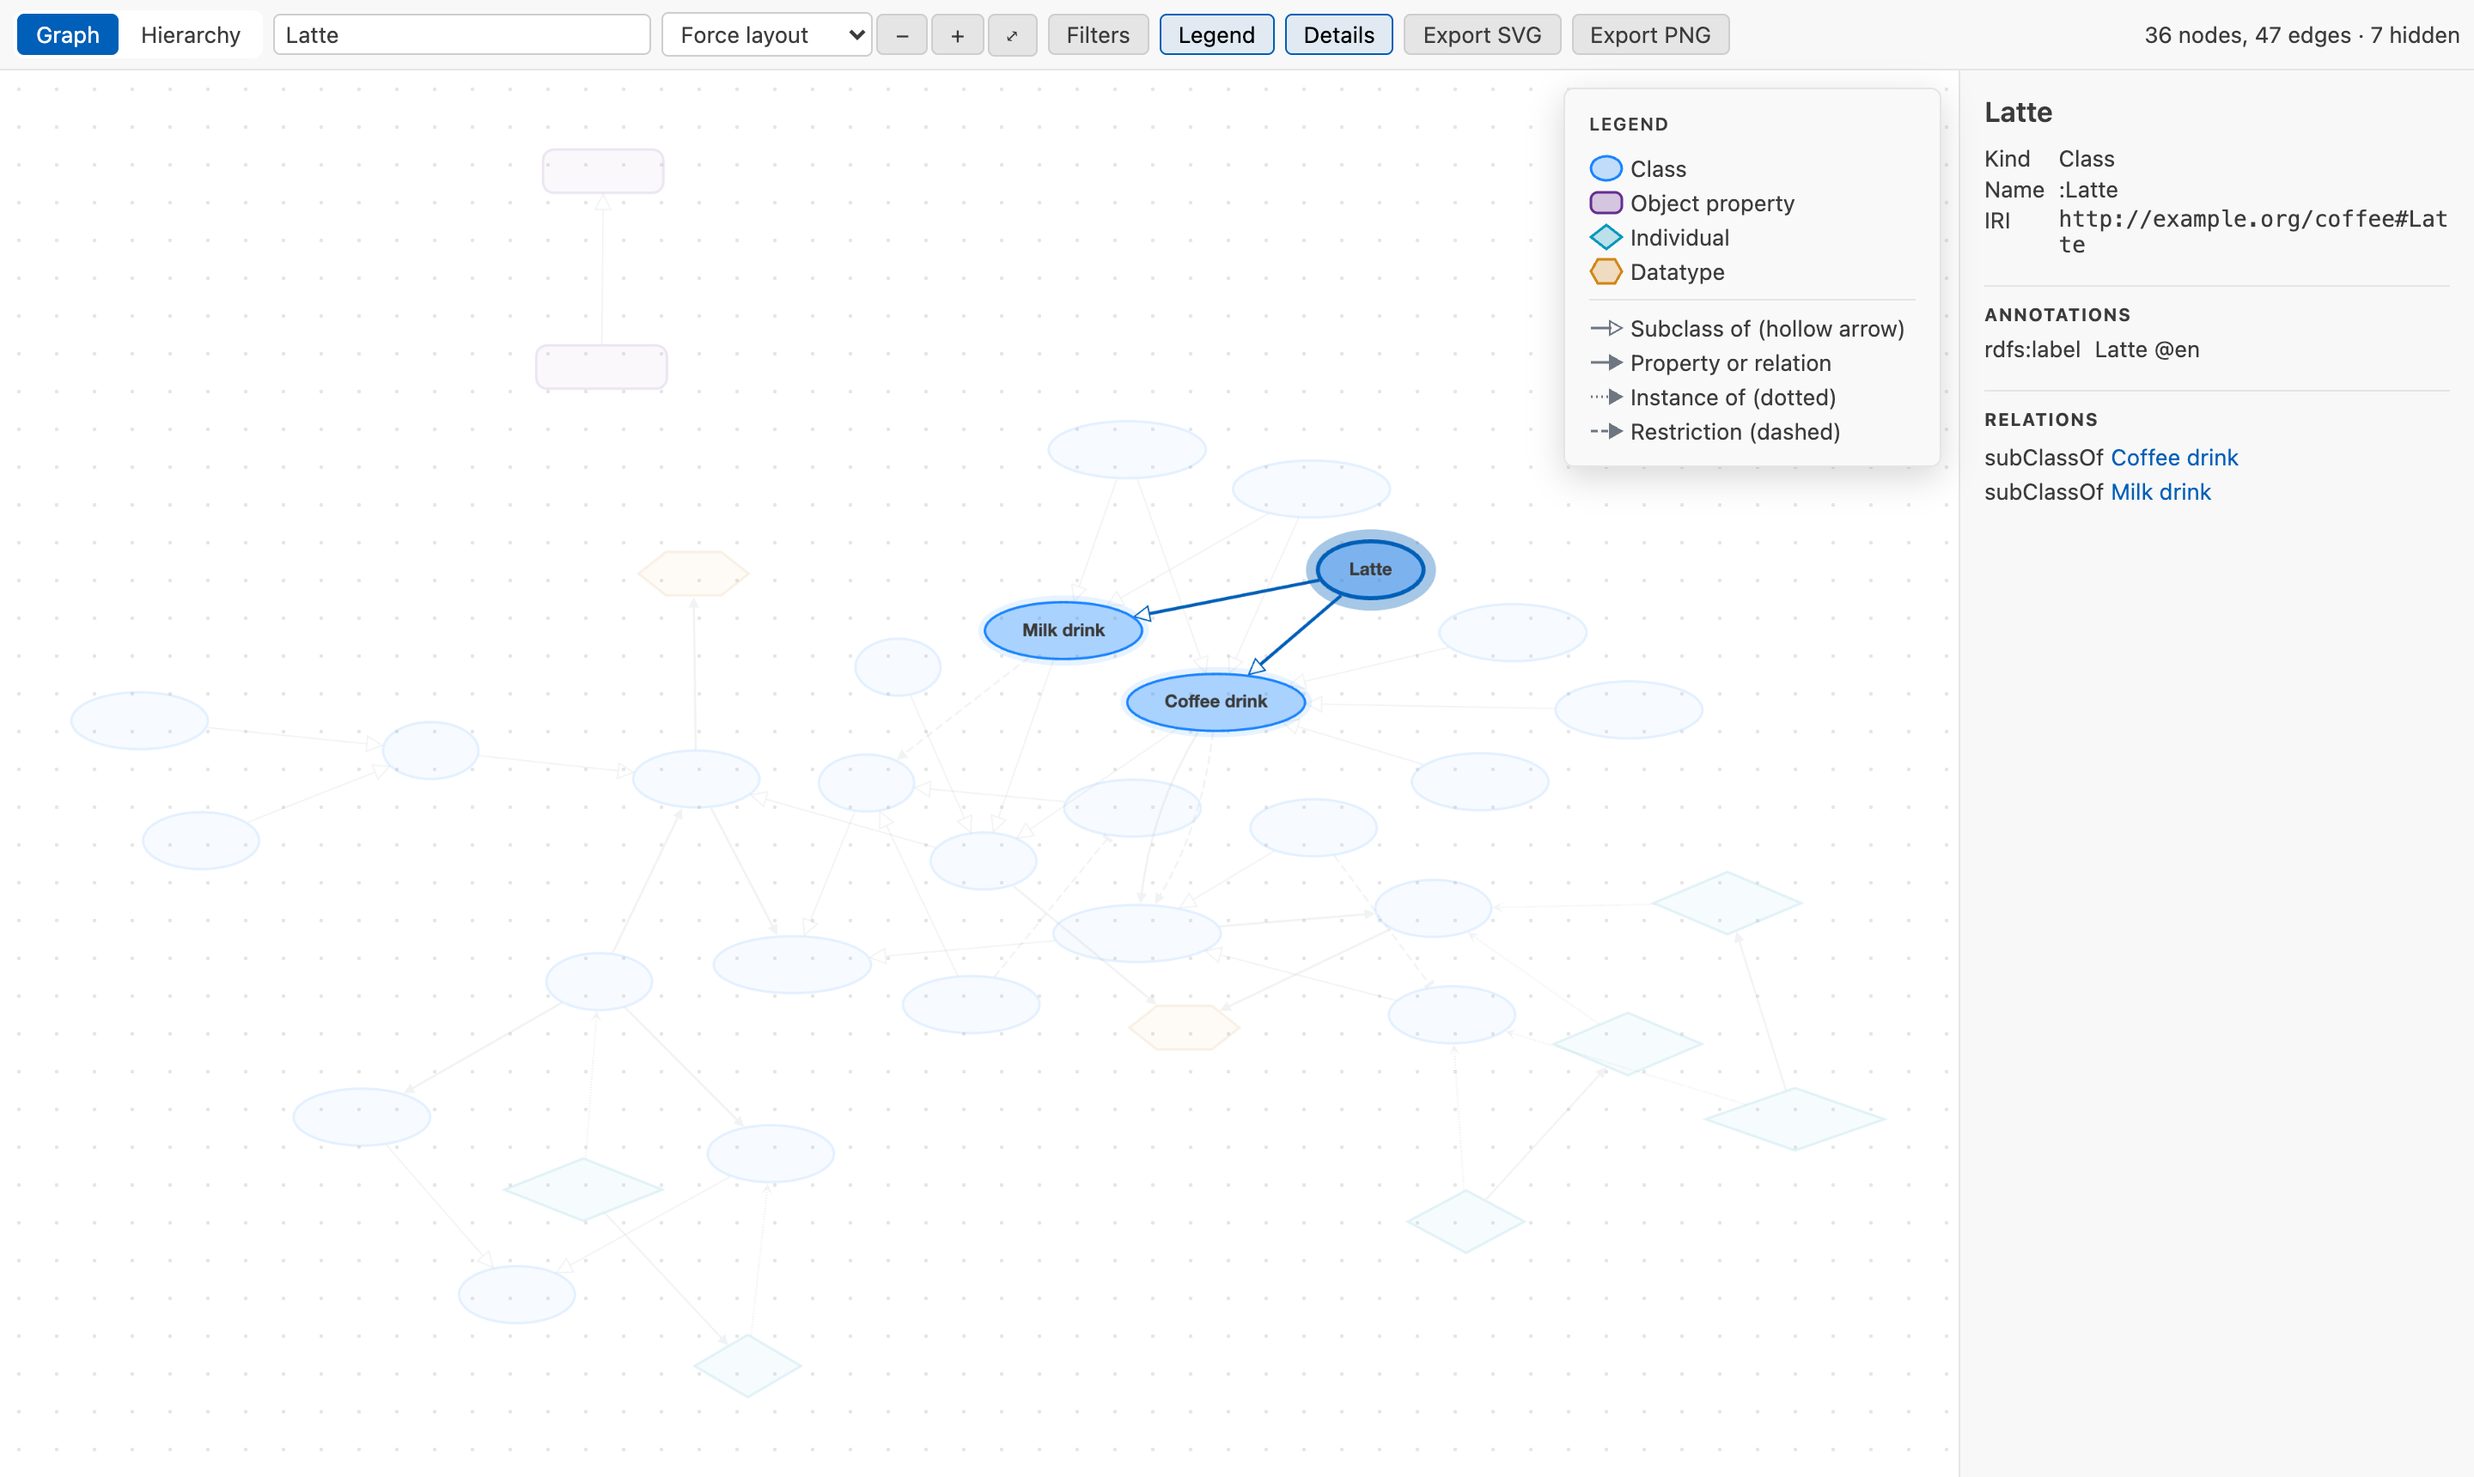
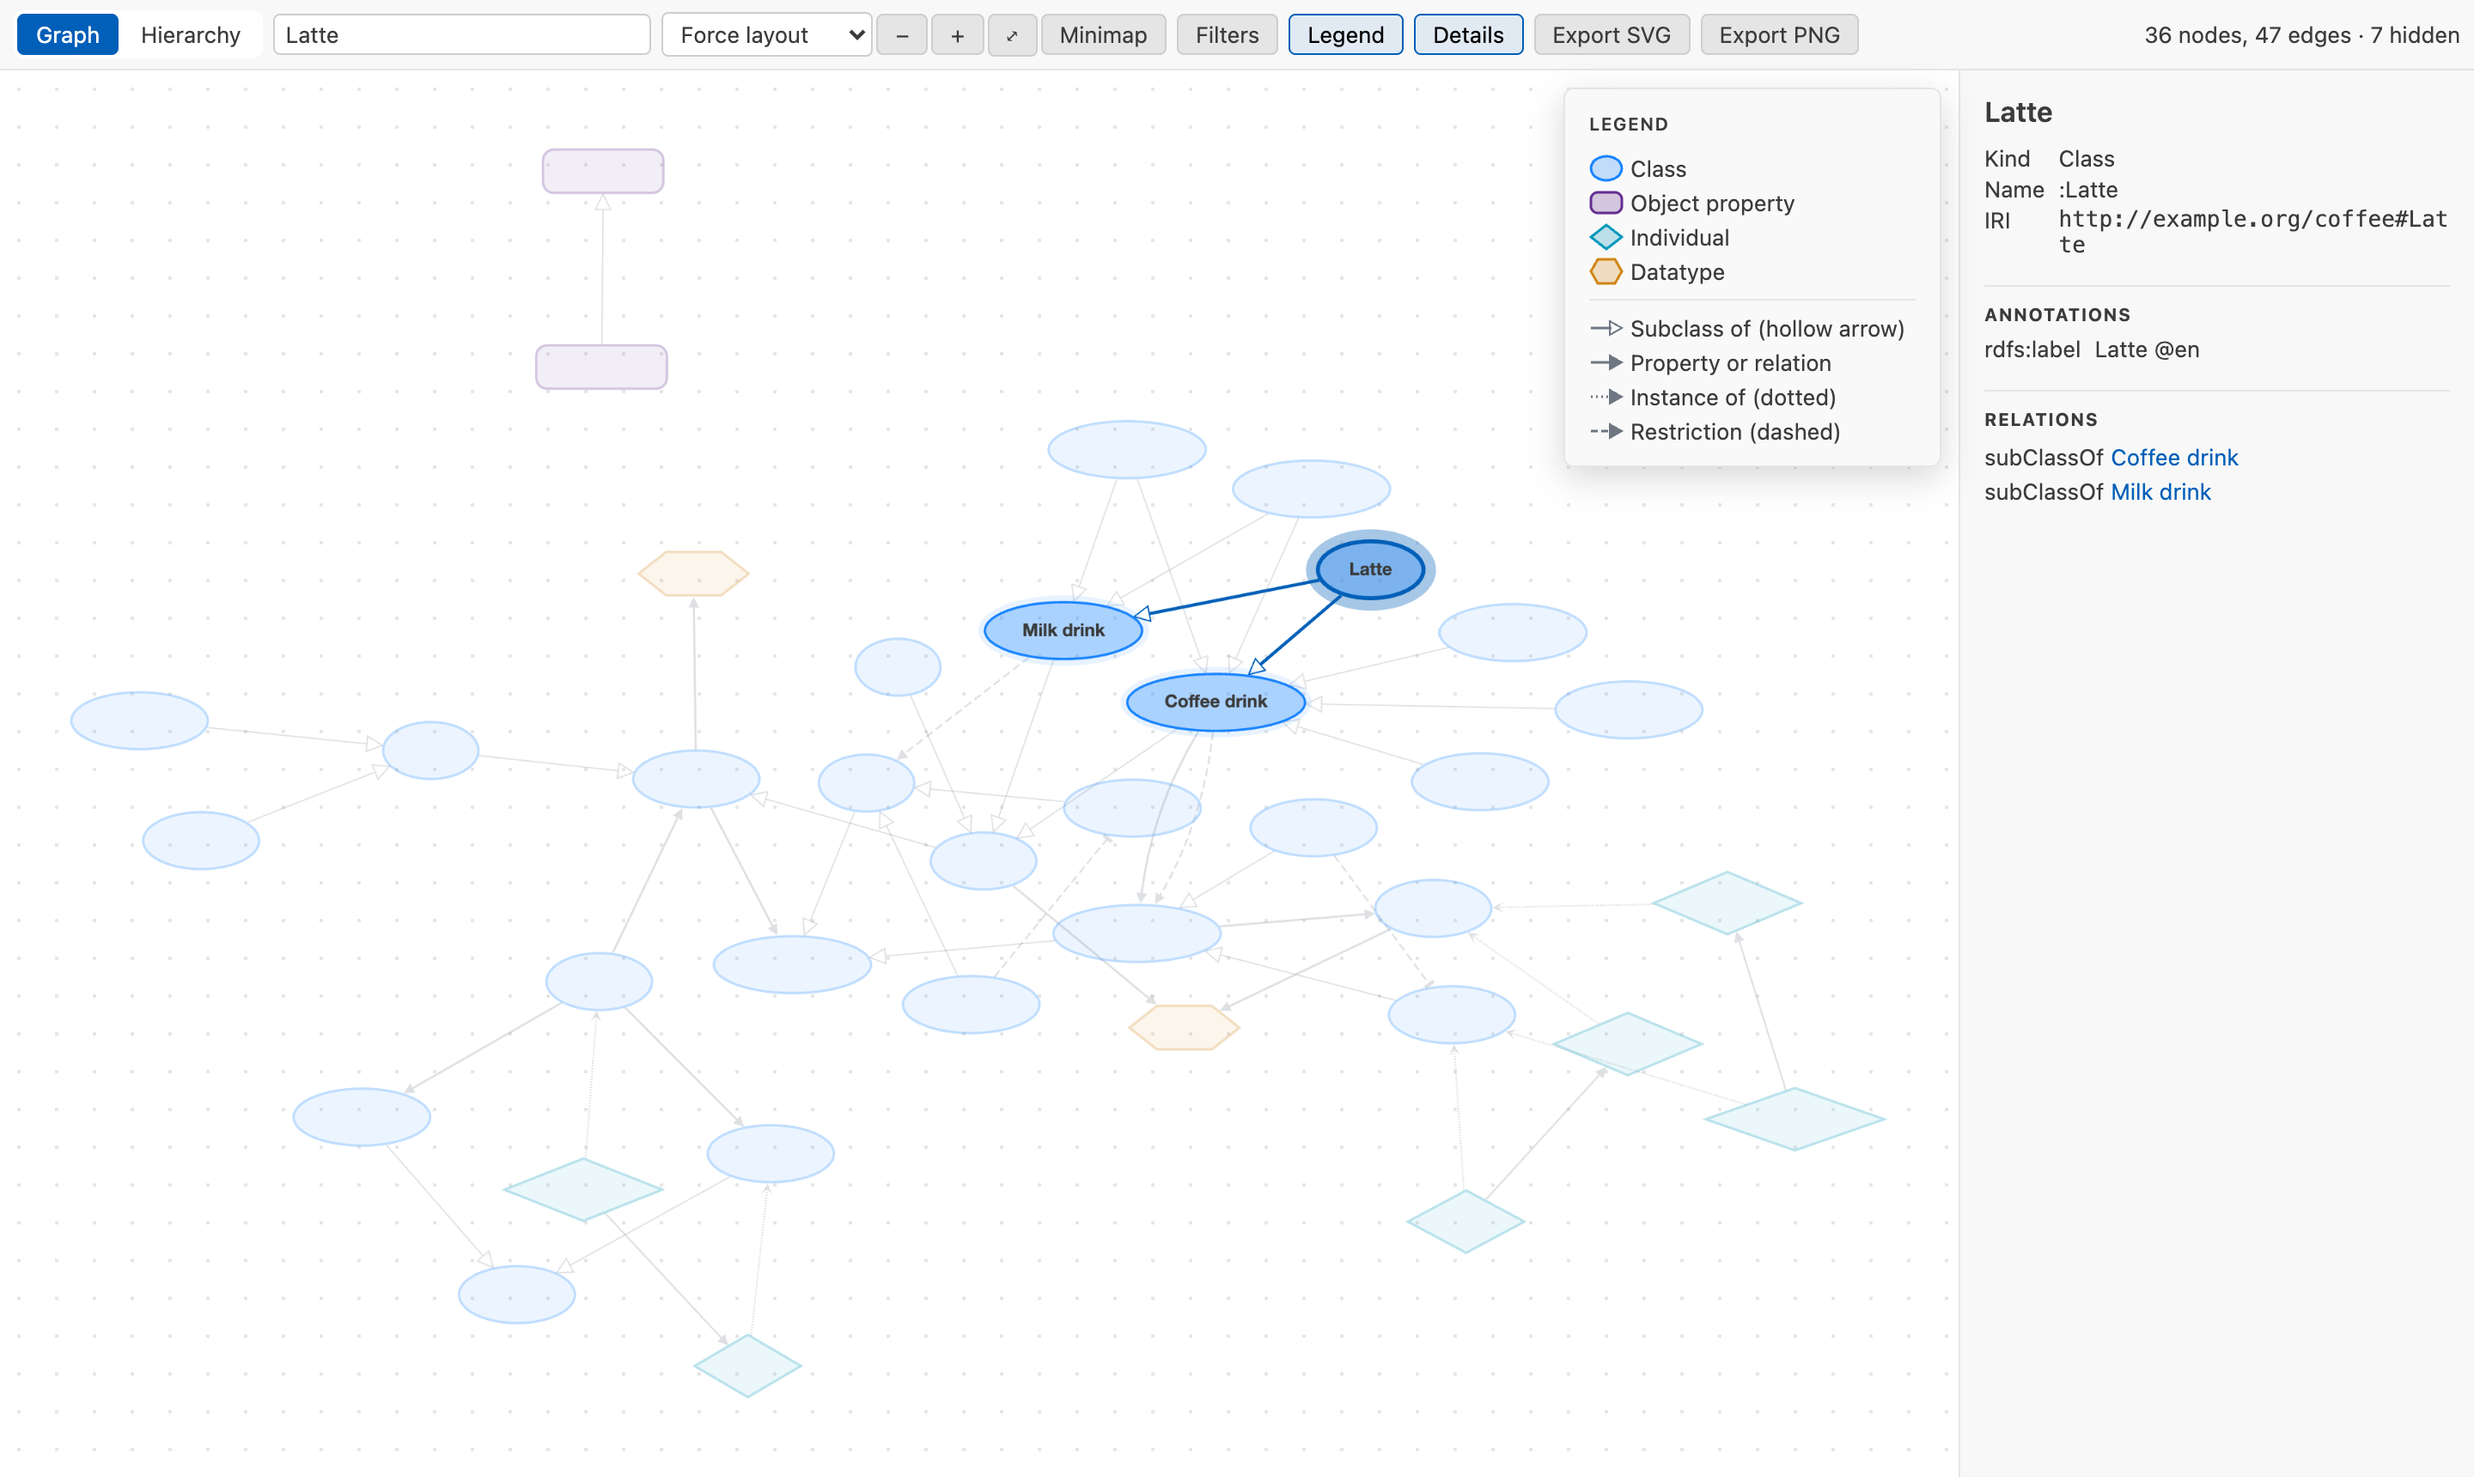
fix(webview): untangle multi-parent trees and keep faded nodes visible in light themes
The tree layout now uses only the first parent edge, and other parents are dashed; faded nodes were nearly invisible on white.

Changed region(s): [[0.4375, 0.0, 0.75, 0.0308]]

diff --git a/src/webview/hierarchyView.ts b/src/webview/hierarchyView.ts
@@ -404,10 +404,10 @@ export function createHierarchyView(
       ...ids.flatMap((id) =>
         (data.nodes[id]?.parents ?? [])
           .filter((parent) => shown.has(parent))
-          .map((parent) => ({
+          .map((parent, index) => ({
             group: 'edges' as const,
             data: { id: `${parent} ${id}`, source: parent, target: id, label: '' },
-            classes: 'tree-edge',
+            classes: `tree-edge ${settings.direction}${index === 0 ? '' : ' extra-parent'}`,
           })),
       ),
     ];
@@ -417,7 +417,9 @@ export function createHierarchyView(
       core.add(elements);
     });
     core.resize();
-    core.layout(layeredLayout(settings.direction)).run();
+    // Laying out only the first parent edge keeps the picture a tree; with every parent
+    // edge, dagre pulls shared children between branches and the edges cross.
+    core.elements().not('.extra-parent').layout(layeredLayout(settings.direction)).run();
     if (selectedId && core.getElementById(selectedId).nonempty()) {
       core.getElementById(selectedId).select();
       core.center(core.getElementById(selectedId));
@@ -501,9 +503,15 @@ function diagramStylesheet() {
         'source-arrow-fill': 'hollow',
         'arrow-scale': 1.3,
         'curve-style': 'taxi',
-        'taxi-direction': 'auto',
         'taxi-radius': 10,
       },
+    },
+    // With 'auto', an edge to a child far down the column bends the wrong way first.
+    { selector: 'edge.tree-edge.LR', style: { 'taxi-direction': 'horizontal' } },
+    { selector: 'edge.tree-edge.TB', style: { 'taxi-direction': 'vertical' } },
+    {
+      selector: 'edge.extra-parent',
+      style: { 'curve-style': 'unbundled-bezier', 'line-style': 'dashed', opacity: 0.55 },
     },
   ] as cytoscape.StylesheetJson;
 }

diff --git a/src/webview/theme.ts b/src/webview/theme.ts
@@ -103,6 +103,7 @@ export interface Palette {
   readonly focus: string;
   readonly edge: string;
   readonly highContrast: boolean;
+  readonly light: boolean;
   readonly kinds: Record<NodeKind, string>;
   readonly status: Record<Exclude<ChangeStatus, 'unchanged'>, string>;
   readonly fontFamily: string;
@@ -134,6 +135,9 @@ export function readPalette(): Palette {
     edge: read('--vscode-editorLineNumber-foreground', '#858585'),
     highContrast:
       document.body.classList.contains('vscode-high-contrast') ||
+      document.body.classList.contains('vscode-high-contrast-light'),
+    light:
+      document.body.classList.contains('vscode-light') ||
       document.body.classList.contains('vscode-high-contrast-light'),
     kinds,
     status,

diff --git a/src/webview/graphStyle.ts b/src/webview/graphStyle.ts
@@ -121,7 +121,11 @@ export function graphStylesheet(palette: Palette): StylesheetJson {
     { selector: 'edge.status-added, edge.status-modified', style: { width: 2.4 } },
     { selector: '.diff.status-unchanged', style: { opacity: 0.55 } },
     { selector: '.context', style: { opacity: 0.35 } },
-    { selector: '.faded', style: { opacity: 0.12, 'text-opacity': 0, 'underlay-opacity': 0 } },
+    {
+      selector: '.faded',
+      // Pale node colors on a white canvas vanish at the opacity that works on a dark one.
+      style: { opacity: palette.light ? 0.28 : 0.12, 'text-opacity': 0, 'underlay-opacity': 0 },
+    },
     {
       selector: 'edge.highlighted',
       style: {

diff --git a/README.md b/README.md
@@ -14,7 +14,7 @@
 
 ![Selected node in a diff, light theme](docs/images/diff-light.png)
 
-**Hierarchy as a tree diagram.** Classes laid out by `rdfs:subClassOf`, left to right. Classes with several parents keep all their links.
+**Hierarchy as a tree diagram.** Classes laid out by `rdfs:subClassOf`, left to right. Classes sit under their first parent; links to other parents are dashed, so the tree stays readable.
 
 ![Class hierarchy as a tree diagram](docs/images/hierarchy-dark.png)
 

diff --git a/CHANGELOG.md b/CHANGELOG.md
@@ -1,5 +1,10 @@
 # Changelog
 
+## 0.15.0
+
+- Tree diagram: a class with several parents sits under its first parent, and links to its other parents are drawn dashed, so edges no longer cross other branches.
+- Light theme: nodes outside the selected neighborhood stay faintly visible instead of almost disappearing.
+
 ## 0.14.0
 
 - Minimap: an optional overview of the whole graph in the corner of the graph view. Click or drag on it to move the view. Toggle it with the Minimap button.

diff --git a/docs/roadmap.md b/docs/roadmap.md
@@ -13,5 +13,3 @@ What is left before a 1.0 release, grouped by milestone from `AGENTS.md`. M1 to 
 ## Known visual rough edges
 
 - Property-only components (for example `contains` and `made with` linked by `rdfs:subPropertyOf`) are placed far from the main graph by the force layout.
-- In the tree diagram, classes with several parents draw long edges that cross other branches.
-- Faded nodes are very light in the light theme.
